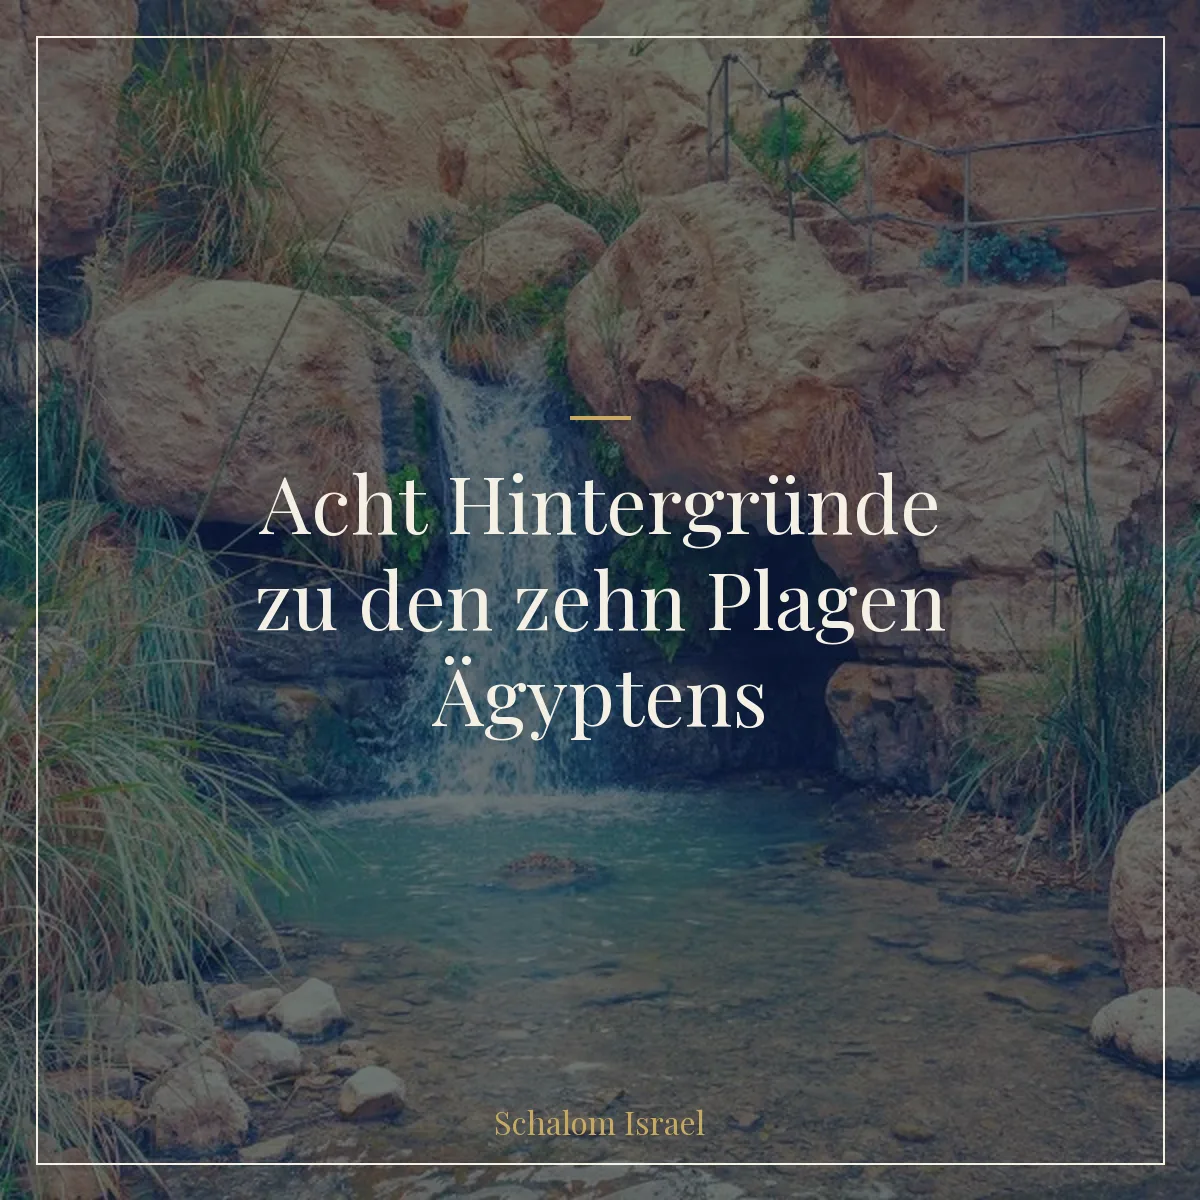
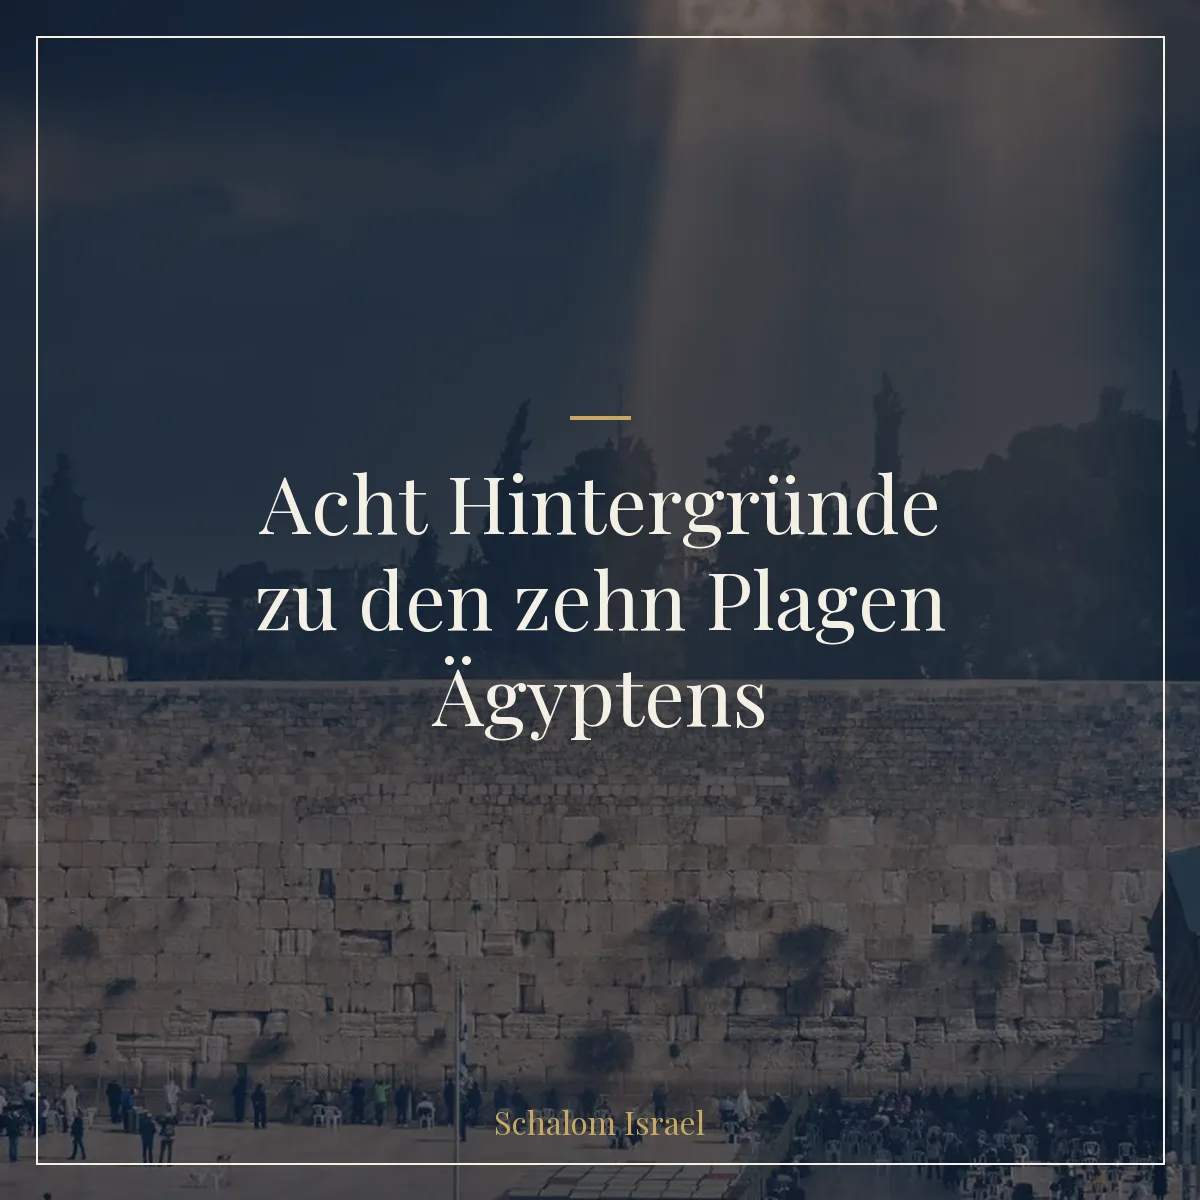
fix: h4-Style in article.css + Share-Bilder mit unterschiedlichen Hintergründen
- article.css: .article-main h4 ergänzt (gleiche Goldfarbe #8a6a28 wie h3,
  nur kleiner). Vorher griff Browser-Default und h4 war unleserlich.
- Share-Bilder der 5 Telegram-Artikel mit individuellen Hintergrundbildern
  neu generiert (Schlaom-Israel-02, 04, 06, 08, 12) statt Default-10.

diff --git a/article.css b/article.css
@@ -62,6 +62,13 @@
   color: #8a6a28;
   margin: 2rem 0 0.75rem;
 }
+.article-main h4 {
+  font-family: 'Playfair Display', Georgia, serif;
+  font-size: 1.1rem;
+  font-weight: 600;
+  color: #8a6a28;
+  margin: 1.5rem 0 0.5rem;
+}
 .article-main p {
   margin-bottom: 1.4rem;
   color: #2a3a4a;
